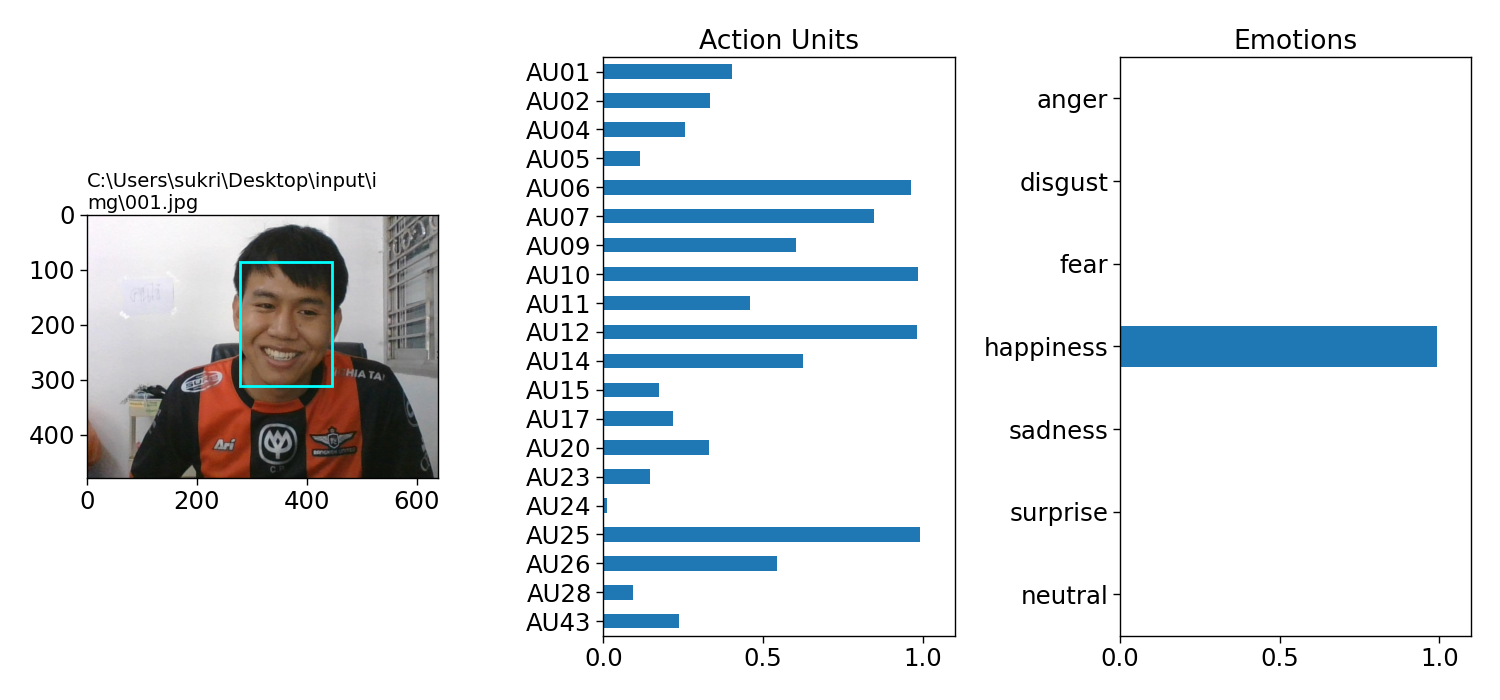
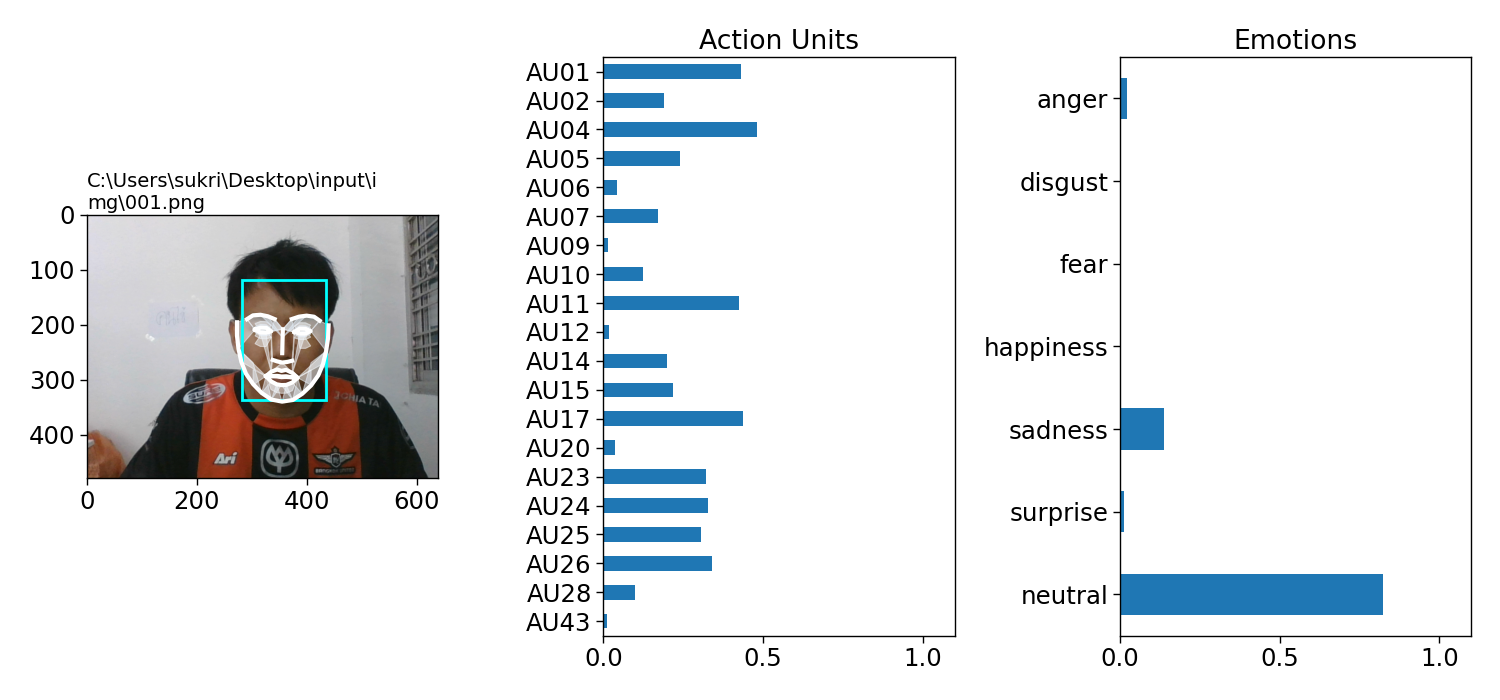
test

diff --git a/Tele_system/realtime_pyfeat.py b/Tele_system/realtime_pyfeat.py
@@ -4,6 +4,7 @@ import csv
 import pandas as pd
 import os
 from datetime import datetime
+import time
 
 ################### pyfeat #########################
 from feat import Detector
@@ -12,15 +13,18 @@ from PIL import Image
 import matplotlib.pyplot as plt
 from feat.utils import read_feat
 
+################### calculate FPS #########################
+prev_frame_time = 0
+new_frame_time = 0
+
 face_model = "retinaface"
 landmark_model = "mobilenet"
 au_model = "rf"
 emotion_model = "resmasknet"
 detector = Detector(face_model = face_model, landmark_model = landmark_model, au_model = au_model, emotion_model = emotion_model)
 
-
-# cap = cv2.VideoCapture('http://192.168.1.39:56000/mjpeg')
-cap = cv2.VideoCapture(0)
+cap = cv2.VideoCapture('http://192.168.1.39:56000/mjpeg')
+# cap = cv2.VideoCapture(0)
 
 font = cv2.FONT_HERSHEY_SIMPLEX
 fontScale = 1
@@ -30,14 +34,26 @@ lineType = 2
 while(True):
 
     ret, frame = cap.read()
-    cv2.imwrite(r'C:\Users\sukri\Desktop\input\img\001.jpg', frame)
-    test_image = r"C:\Users\sukri\Desktop\input\img\001.jpg"
+    new_frame_time = time.time()
+
+    cv2.imwrite(r'C:\Users\sukri\Desktop\input\img\001.png', frame)
+    test_image = r"C:\Users\sukri\Desktop\input\img\001.png"
     image_prediction = detector.detect_image(test_image)
     print(image_prediction)
-    image_prediction.plot_detections(draw_landmarks=False, draw_facelines=False, muscle=False)
+
+    image_prediction.plot_detections()
+    # pics = image_prediction.plot_detections(draw_landmarks=False, draw_facelines=False, muscle=False)
+    # pics = image_prediction.plot_detections(draw_landmarks=True, draw_facelines=True, muscle=True)
+
     img = cv2.imread('fooss.png')
     cv2.imshow('image', img)
     plt.close('all')
+
+    fps = 1 / (new_frame_time - prev_frame_time)
+    prev_frame_time = new_frame_time
+    fps = round(fps,2)
+    fps = str(fps)
+    print(fps)
 
     if cv2.waitKey(1) & 0xFF == ord('q'):
         break
